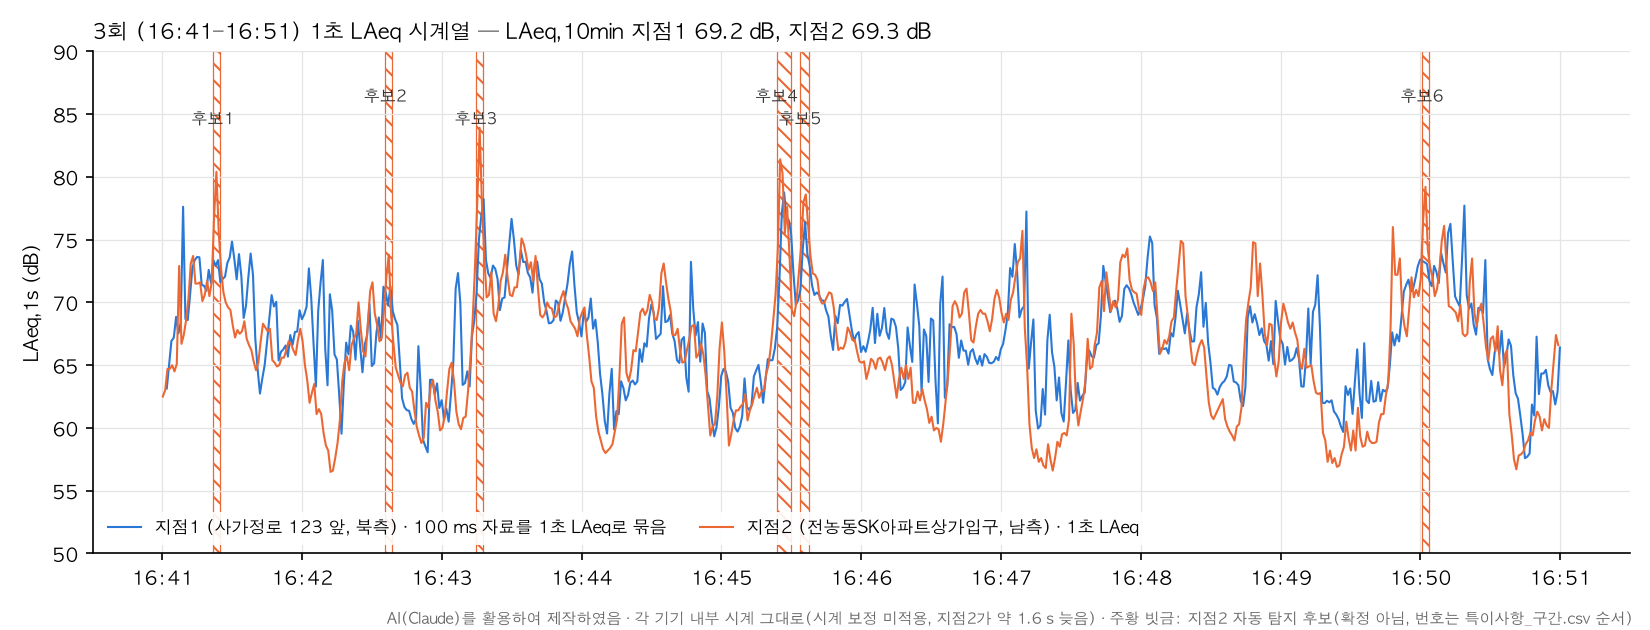
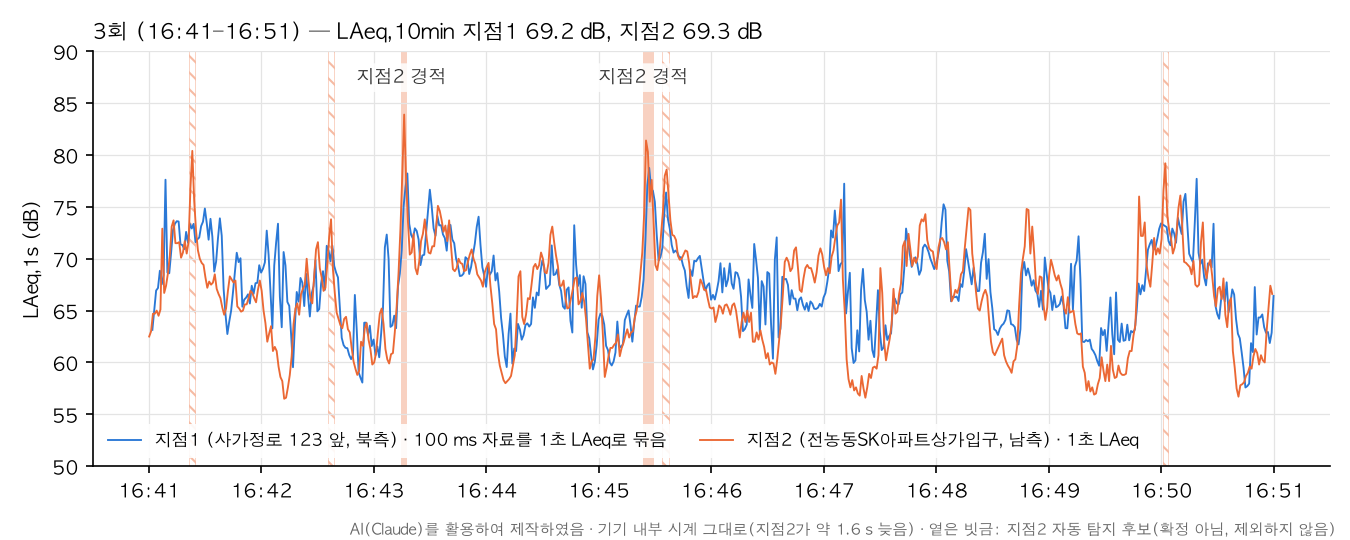
결과보고서: 차도 면 보정(flatten)·반사 3차 재계산 값 반영, 두 지점 시계열 그림 추가
- 측정 비교·차이 통계·지면효과·조합 민감도·소음지도·결론·부록 E 수치 55곳 갱신
  (측정점 76.82 / 77.54 dB, 차이 평균 −8.4 dB·SD 0.68, 벽면 초과 10.5 %·231동, 격자 초과 35.9 %)
- 반사 3차·차도 면 지형 보정 설명, 자료 없는 도로의 교통량은 RLS-19 표 2(독일 기준) 문장 추가
- 회차별 두 지점 1초 LAeq 시계열 그림과 해설 추가, 그림 이름표 정리(analyze.py)

diff --git a/field_measurement/2026-10-22/scripts/analyze.py b/field_measurement/2026-10-22/scripts/analyze.py
@@ -428,38 +428,43 @@ def main():
     for r in (1, 2, 3):
         a, b = S[(1, r)], S[(2, r)]
         ta1, la1 = to_1s(a)
-        fig, ax = plt.subplots(figsize=(11, 4.2))
+        fig, ax = plt.subplots(figsize=(9, 3.6))
         half = np.timedelta64(500, "ms")
-        ax.plot(ta1 - half, la1, color=COLOR[1], lw=1.0, label=f"{POINTS[1]} · 100 ms 자료를 1초 LAeq로 묶음")
-        ax.plot(b.t_end - half, b.leq, color=COLOR[2], lw=1.0, label=f"{POINTS[2]} · 1초 LAeq")
-        k = 0
+        ax.plot(ta1 - half, la1, color=COLOR[1], lw=0.9, label=f"{POINTS[1]} · 100 ms 자료를 1초 LAeq로 묶음")
+        ax.plot(b.t_end - half, b.leq, color=COLOR[2], lw=0.9, label=f"{POINTS[2]} · 1초 LAeq")
+        # 이름표는 결과보고서 표 1의 이상 소음 구간(제외·참고값)에만 붙인다. 두 지점 사이렌은 이름표 하나로 묶는다.
+        # 자동 탐지 후보(미제외, 확정 아님)는 이름표 없이 옅은 빗금으로만 표시한다.
+        labels = []
         for e in event_rows:
             if e["회차"] != r:
                 continue
             lo, hi = T(e["시작"]), T(e["끝"])
-            if e["지점"] == 1 and e["구분"].startswith("제외"):
-                ax.axvspan(lo, hi, color=COLOR[1], alpha=0.25, lw=0)
-                ax.annotate(f"지점1 오토바이(피크 대조 {e['시작'][:8]})", (lo, 88), fontsize=7.5, color="#333", ha="center")
-            elif e["지점"] == 1:
-                ax.axvspan(lo, hi, facecolor="none", edgecolor=COLOR[1], hatch="///", lw=0.6)
-                ax.annotate("지점1 참고 피크", (lo, 86), fontsize=7.5, color="#333", ha="center")
-            elif e["구분"].startswith("제외"):
-                ax.axvspan(lo, hi, color=COLOR[2], alpha=0.18, lw=0)
-                ax.annotate("지점2 사이렌(녹음 확인)", (lo, 88), fontsize=7.5, color="#333", ha="left")
-            else:
-                k += 1
-                ax.axvspan(lo, hi, facecolor="none", edgecolor=COLOR[2], hatch="\\\\\\", lw=0.6)
-                ax.annotate(f"후보{k}", (lo, 86 - 1.8 * (k % 2)), fontsize=7.5, color="#333", ha="center")
+            p, kind = e["지점"], e["구분"]
+            if "사이렌" in kind:
+                ax.axvspan(lo, hi, color="#888", alpha=0.18, lw=0)
+                if p == 2:
+                    labels.append((lo, "사이렌(두 지점)"))
+            elif p == 1 and kind.startswith("제외"):
+                ax.axvspan(lo, hi, color=COLOR[1], alpha=0.30, lw=0)
+                labels.append((lo, "지점1 오토바이"))
+            elif p == 2 and kind.startswith("후보·제외"):
+                ax.axvspan(lo, hi, color=COLOR[2], alpha=0.30, lw=0)
+                labels.append((lo, "지점2 경적"))
+            elif p == 2:
+                ax.axvspan(lo, hi, facecolor="none", edgecolor=COLOR[2], hatch="\\\\\\", lw=0.3, alpha=0.45)
+        for lo, text in labels:
+            ax.annotate(text, (lo, 88.5), fontsize=8.5, color="#333", ha="center", va="top",
+                        bbox=dict(boxstyle="round,pad=0.2", fc="white", ec="none", alpha=0.85))
         la_dev = next(m for m in metric_rows if m["지점"] == 1 and m["회차"] == r)["LAeq_재계산"]
         lb_dev = next(m for m in metric_rows if m["지점"] == 2 and m["회차"] == r)["LAeq_재계산"]
-        ax.set_title(f"{r}회 ({ROUNDS[r][0]}–{ROUNDS[r][1]}) 1초 LAeq 시계열 — LAeq,10min 지점1 {la_dev} dB, 지점2 {lb_dev} dB",
+        ax.set_title(f"{r}회 ({ROUNDS[r][0]}–{ROUNDS[r][1]}) — LAeq,10min 지점1 {la_dev} dB, 지점2 {lb_dev} dB",
                      loc="left", fontsize=10)
         ax.set_ylabel("LAeq,1s (dB)")
         ax.set_ylim(50, 90)
         ax.xaxis.set_major_formatter(hm)
         ax.legend(loc="lower left", fontsize=8, frameon=True, facecolor="white", edgecolor="none", framealpha=0.9, ncol=2)
-        fig.text(0.99, 0.01, f"{AI_NOTE} · 각 기기 내부 시계 그대로(시계 보정 미적용, 지점2가 약 1.6 s 늦음) · "
-                 "주황 빗금: 지점2 자동 탐지 후보(확정 아님, 번호는 특이사항_구간.csv 순서)",
+        fig.text(0.99, 0.01, f"{AI_NOTE} · 기기 내부 시계 그대로(지점2가 약 1.6 s 늦음) · "
+                 "옅은 빗금: 지점2 자동 탐지 후보(확정 아님, 제외하지 않음)",
                  ha="right", fontsize=7, color="#666")
         fig.tight_layout(rect=(0, 0.03, 1, 1))
         fig.savefig(FIG / f"시계열_{r}회_두지점.png", dpi=150)
